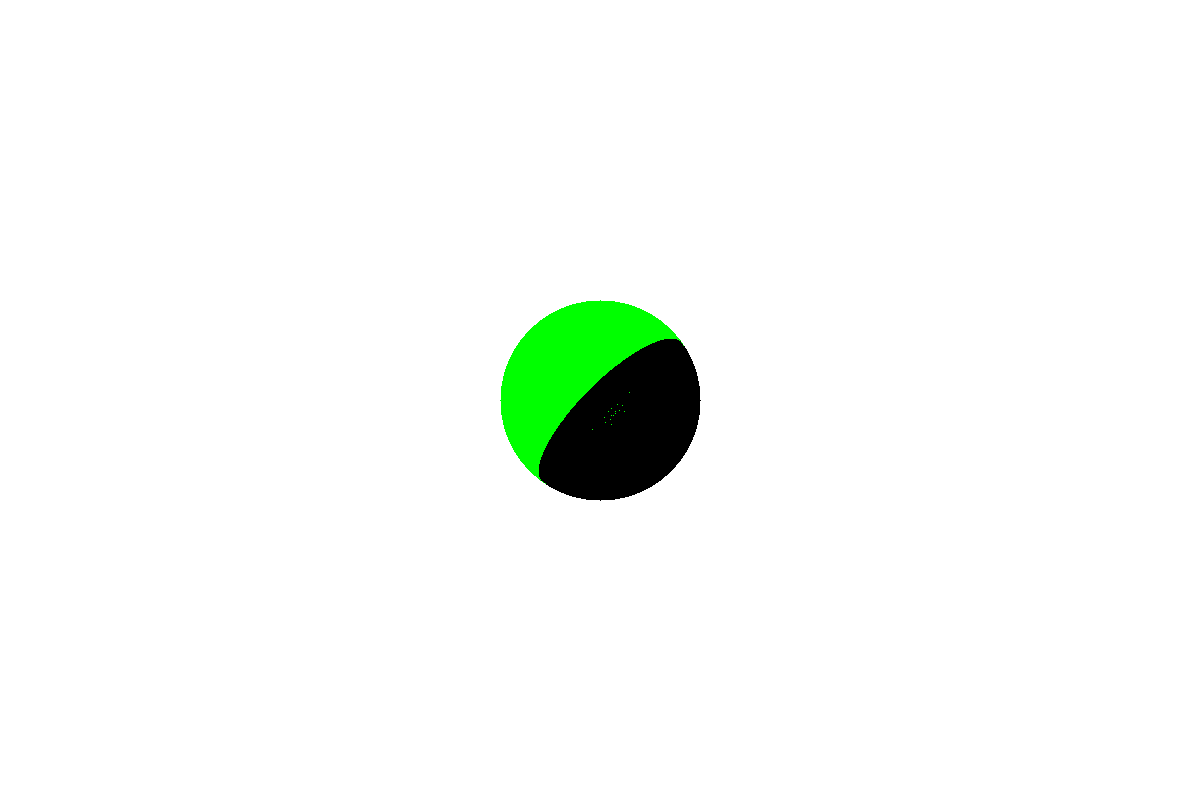
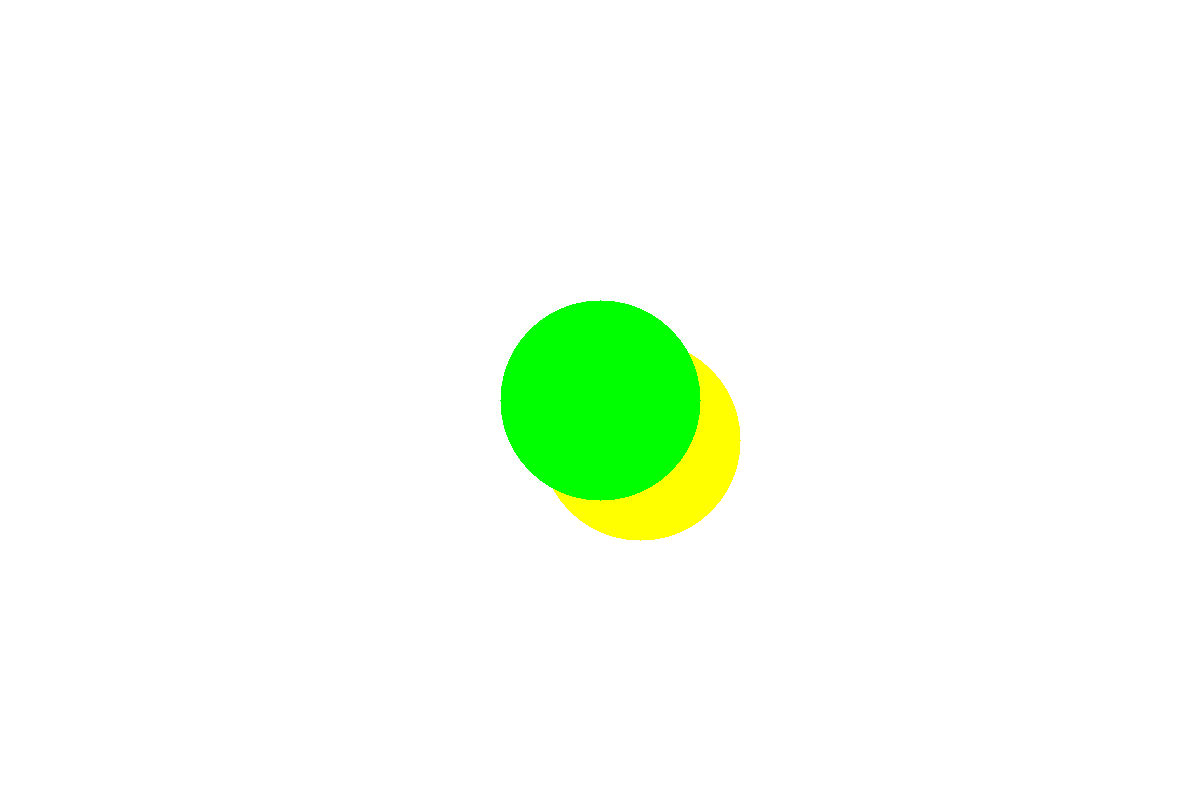
Getting closest intersected object in scene for each ray

Changed region(s): [[0.4317, 0.4062, 0.6167, 0.6875]]

diff --git a/TP2/Synthese_TP2/Scene.cpp b/TP2/Synthese_TP2/Scene.cpp
@@ -17,17 +17,18 @@ void Scene::renderImage(const std::string &fileName) {
 
 
     //std::unique_ptr<SceneObject> s(new Sphere(glm::vec3(0, 0, 10), 100));
-    m_objectList.push_back( std::unique_ptr<SceneObject>(new Sphere(glm::vec3(0, 0, 10), 100)) );
-
-    //SceneObject* s2 = new Sphere(glm::vec3(40, 40, 10), 100);
-    //objectsList.push_back(s2);
+    m_objectList.push_back( std::shared_ptr<SceneObject>(new Sphere(sf::Color::Green, glm::vec3(0, 0, 10), 100)) );
+    m_objectList.push_back( std::shared_ptr<SceneObject>(new Sphere(sf::Color::Yellow, glm::vec3(40, 40, 15), 100)) );
 
 
     // Compute pixel color
     for (unsigned int x = 0; x < m_width; ++x) {
         for (unsigned int y = 0; y < m_height; y++){
 
-            m_image.setPixel(x, y, rayTracePixel(x, y));
+            glm::vec3 origin(static_cast<float>(x) - m_width / 2, static_cast<float>(y) - m_height / 2, 0);
+            Ray ray(origin, m_camera.m_direction);
+
+            m_image.setPixel(x, y, rayTracePixel(ray));
 
         }
     }
@@ -37,7 +38,7 @@ void Scene::renderImage(const std::string &fileName) {
 }
 
 
-sf::Color Scene::rayTracePixel(unsigned int x, unsigned int y) {
+sf::Color Scene::rayTracePixel(Ray ray) {
 
     /*
         - Calculer l'intersection de tout les objets et retourner l'objet le plus proche avec son point d'intersection et sa normale (Quelle est l'intersection la plus proche)
@@ -48,46 +49,84 @@ sf::Color Scene::rayTracePixel(unsigned int x, unsigned int y) {
     
     */
 
-
-    // Ray origin
-    glm::vec3 origin(static_cast<float>(x) - m_width / 2, static_cast<float>(y) - m_height / 2, 0);
-    Ray pixel(origin, m_camera.m_direction);
-
     glm::vec3 position;
     glm::vec3 normal;
 
+    std::optional<std::shared_ptr<SceneObject>> intersectedObject = findClosestIntersection(ray, position, normal);
+    
+    // No object intersected
+    if (!intersectedObject) {
+        return m_backgroundColor;
+    }
+
+    return intersectedObject.value()->m_color;
+    
+    //for (auto& object : m_objectList) {
+
+    //    // If false, no intersection found
+    //    if (object->intersect(ray, position, normal)) {
+
+    //        glm::vec3 positionLight, normalLight;
+
+    //        for (auto& light : m_lightList) {
+
+    //            Ray toLight = light.getRayFrom(position);
+
+    //            for (auto& object2 : m_objectList) {
+
+    //                if (object2->intersect(toLight, positionLight, normalLight)) {
+
+    //                    return sf::Color::Green;
+    //                
+    //                } else {
+    //                
+    //                    return sf::Color::Black;
+    //                
+    //                }
+    //            }
+    //        }
+
+    //    }
+    //}
+
+    return m_backgroundColor;
+}
+
+std::optional<std::shared_ptr<SceneObject>> Scene::findClosestIntersection(const Ray &ray, glm::vec3 &position, glm::vec3 &normal) {
+
+    // Guard for empty list
+    if (m_objectList.size() == 0) {
+        return std::nullopt;
+    }
+
+    // Object to return (if intersected)
+    std::shared_ptr<SceneObject> closestObject;
+    float tnear = std::numeric_limits<float>::infinity();
+
+    float t;
     // access by reference to avoid copying
-    for (auto& object : m_objectList) {
+    for (auto &object : m_objectList) {
+        if (object->intersect(ray, position, normal, t)) {
+            
+            t = ( (position - ray.m_origin) / ray.m_direction ).length();
 
-        // If false, no intersection found
-        if (object->intersect(pixel, position, normal)) {
-
-            glm::vec3 positionLight, normalLight;
-
-            for (auto& light : m_lightList) {
-
-                Ray toLight = light.getRayFrom(position);
-
-                for (auto& object2 : m_objectList) {
-
-                    if (object2->intersect(toLight, positionLight, normalLight)) {
-
-                        return sf::Color::Green;
-                    
-                    } else {
-                    
-                        return sf::Color::Black;
-                    
-                    }
-                }
+            // We intersect a closer object
+            if (t < tnear) {
+                tnear = t;
+                closestObject = object;
             }
 
         }
     }
 
-    return m_backgroundColor;
+    // No object intersected
+    if(tnear == std::numeric_limits<float>::infinity()){
+        return std::nullopt;
+    }
+
+    return { closestObject };
 }
 
-const sf::Image Scene::getImage() {
+const sf::Image &Scene::getImage() const {
     return m_image;
 }

diff --git a/TP2/Synthese_TP2/Scene.h b/TP2/Synthese_TP2/Scene.h
@@ -1,6 +1,10 @@
 #pragma once
 
 #include <string>
+#include <functional>
+#include <optional>
+
+#include <iostream>
 
 #include <glm/glm.hpp>
 #include <glm/gtx/intersect.hpp>
@@ -21,7 +25,7 @@ private:
 	unsigned int m_height;
 	Camera m_camera;
 	std::vector<Light> m_lightList;
-	std::vector<std::unique_ptr<SceneObject>> m_objectList;
+	std::vector<std::shared_ptr<SceneObject>> m_objectList;
 	sf::Color m_backgroundColor;
 	sf::Image m_image;
 
@@ -31,9 +35,10 @@ public:
 
 	void renderImage(const std::string &fileName);
 
-	const sf::Image getImage();
+	const sf::Image &getImage() const;
 
 private:
-	sf::Color Scene::rayTracePixel(unsigned int x, unsigned int y);
+	sf::Color Scene::rayTracePixel(Ray ray);
+	std::optional<std::shared_ptr<SceneObject>> findClosestIntersection(const Ray &ray, glm::vec3 &position, glm::vec3 &normal);
 
 };

diff --git a/TP2/Synthese_TP2/Ray.h b/TP2/Synthese_TP2/Ray.h
@@ -8,5 +8,5 @@ public:
 	glm::vec3 m_origin;
 	glm::vec3 m_direction;
 
-	Ray(const glm::vec3 &origin, const glm::vec3 &direction) : m_origin(origin), m_direction(direction) {}
+	Ray(const glm::vec3 &origin, const glm::vec3 &direction) : m_origin(origin), m_direction(glm::normalize(direction)) {}
 };
